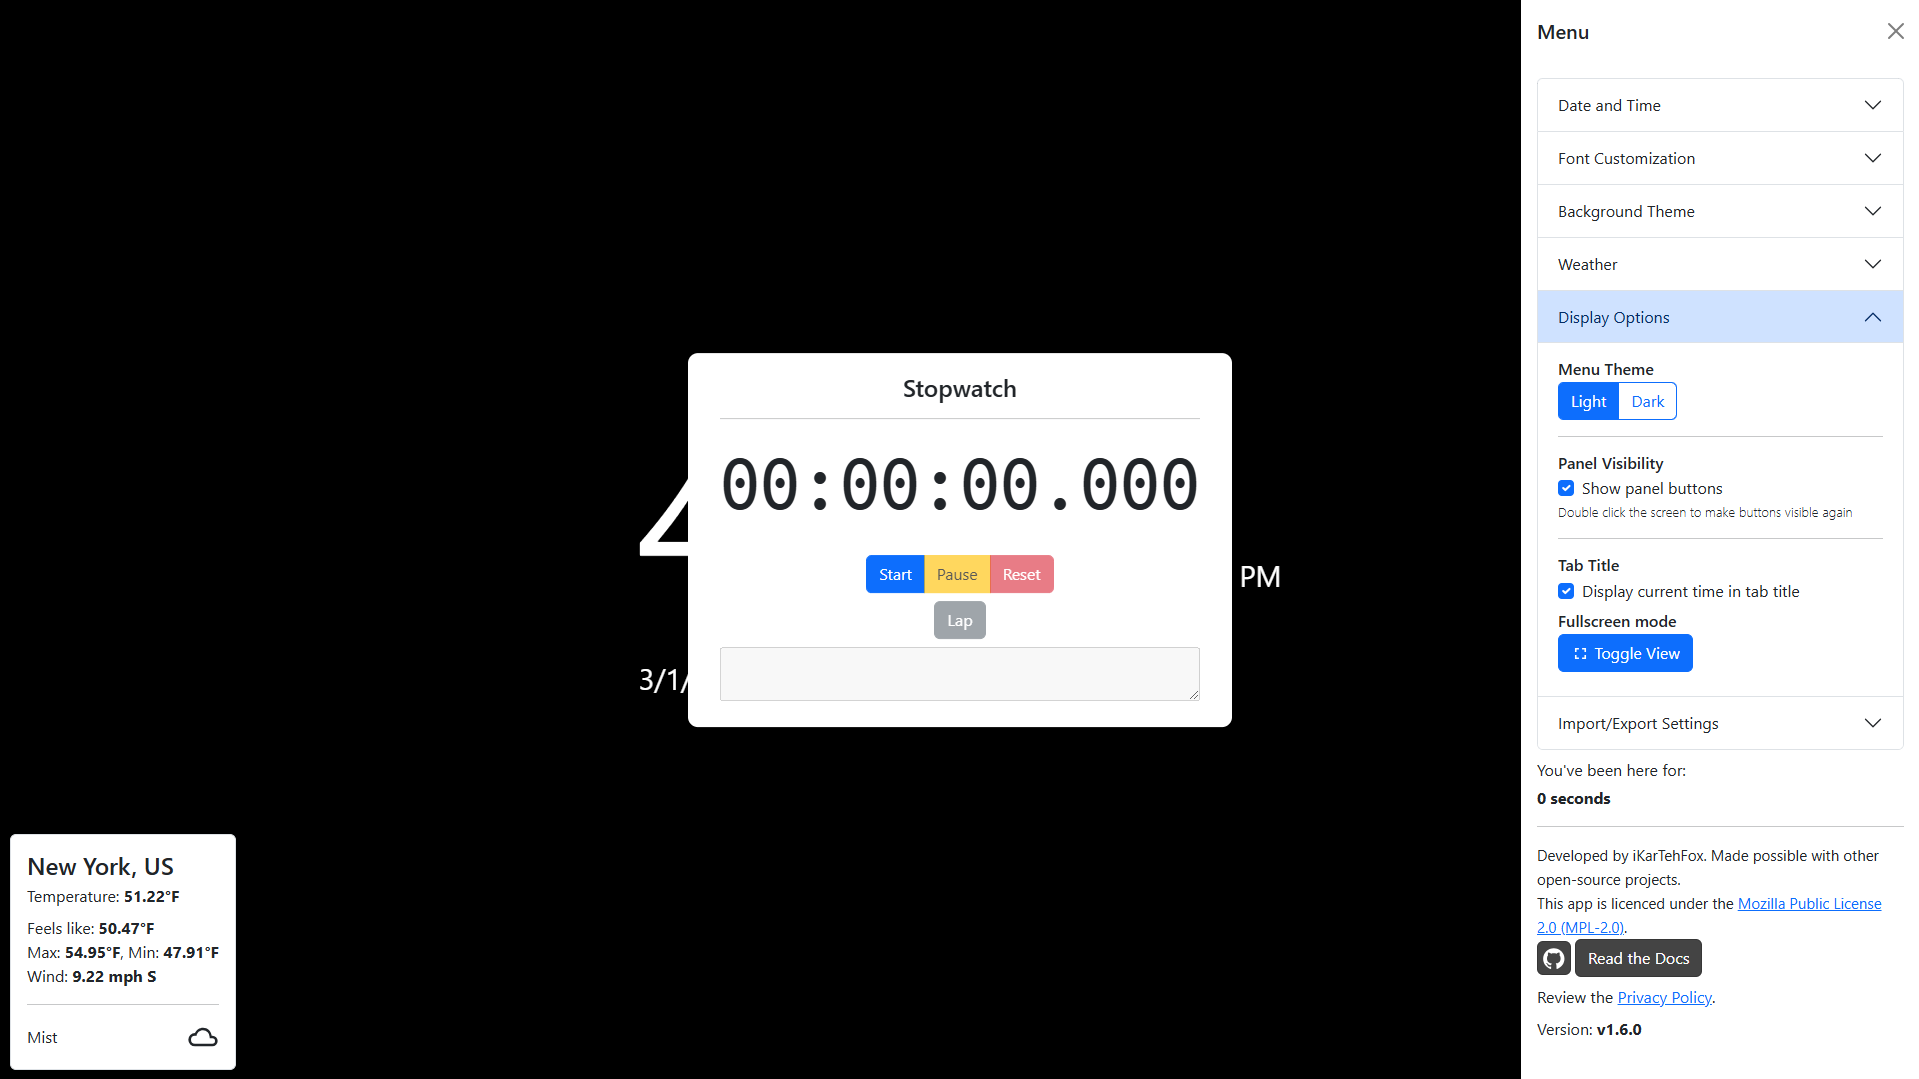
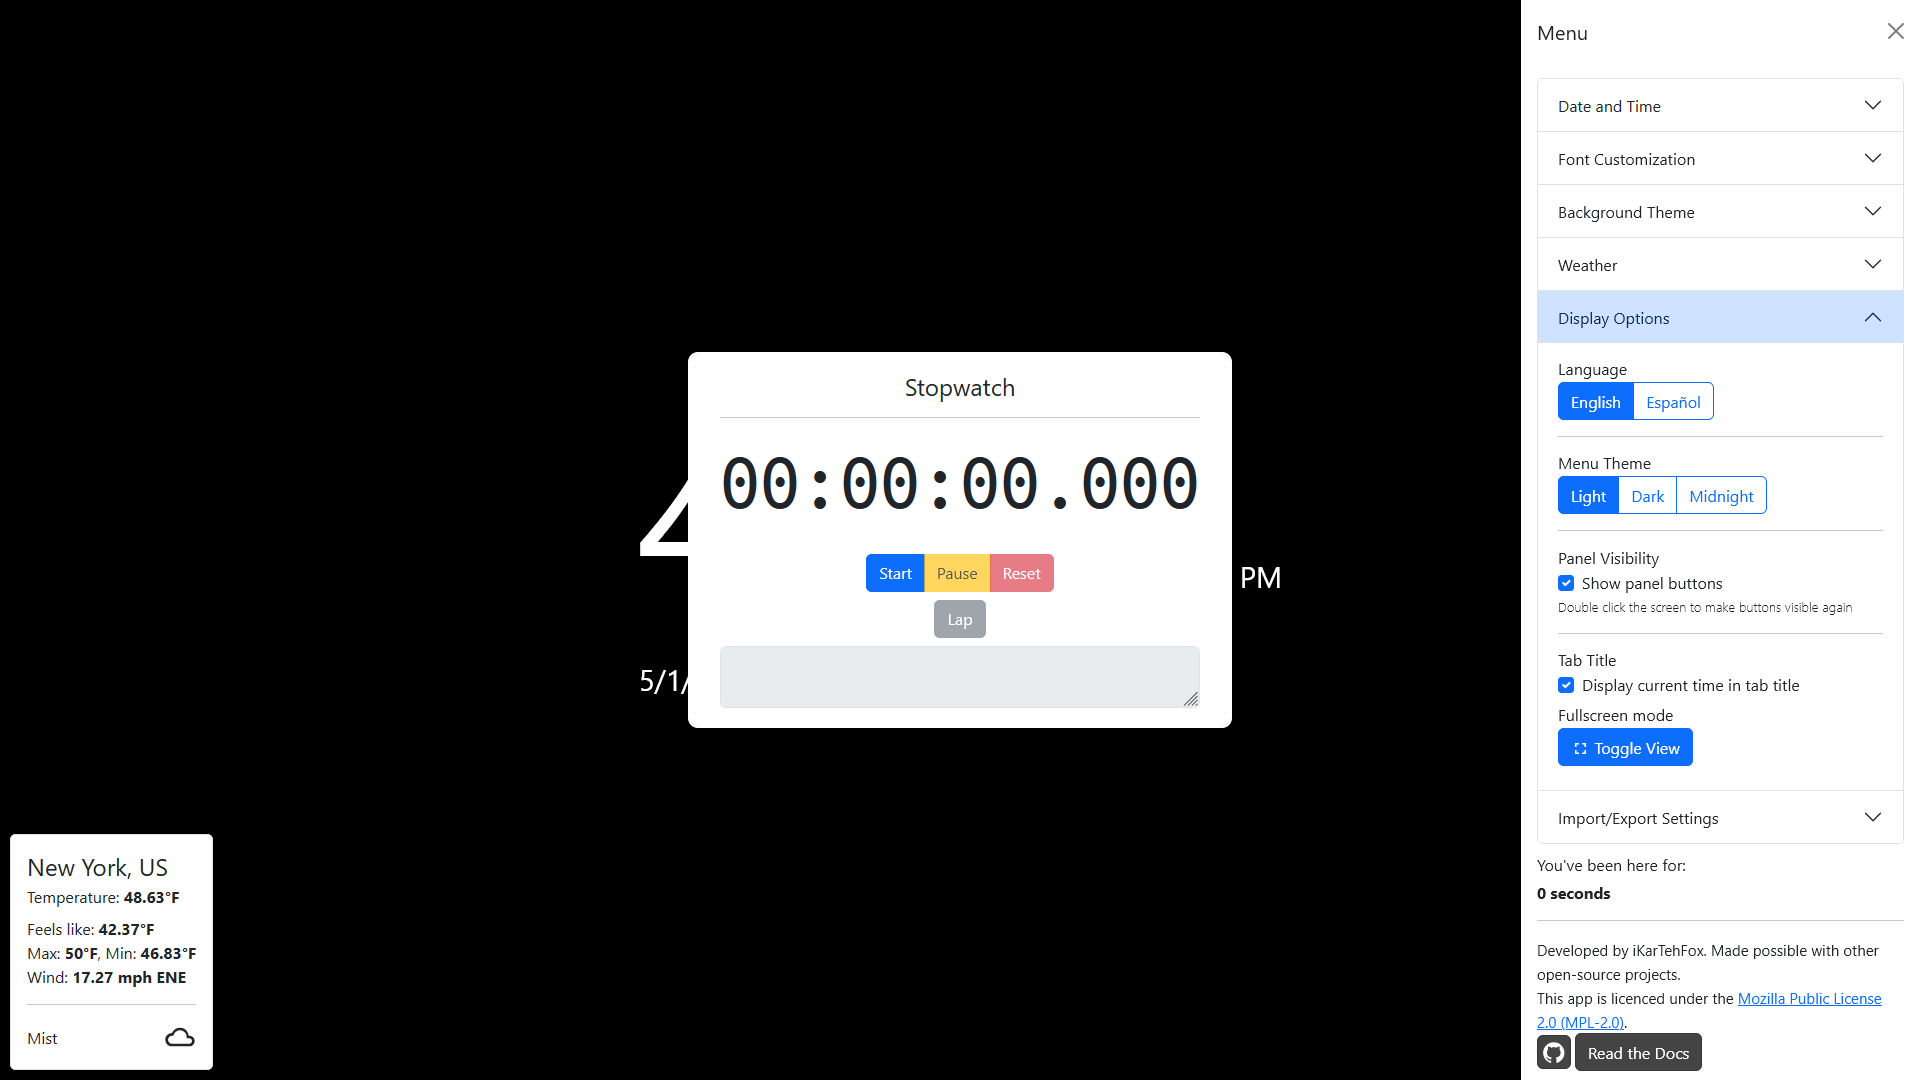
feat: update for v1.7.0

diff --git a/docs/displayoptions.md b/docs/displayoptions.md
@@ -20,65 +20,78 @@ All of these settings can be set with [URL parameters](/docs/url-params#base-url
 
 ## Options
 ### Menu Theme
-The Menu Theme radio buttons allow you to change the theme of the menu panel, either Light or Dark. Theme functionality is included with Bootstrap, and can be changed with the `data-bs-theme` attribute.
+The Menu Theme radio buttons allow you to change the theme of the menu panel, either to Light, Dark, or Midnight. Theme functionality is included with Bootstrap, and can be changed with the `data-bs-theme` attribute.
 
 ![A screenshot of the Menu Theme radio buttons.](/assets/images/docs-Features/displayoptions/menutheme.png)
 
-| Light theme | Dark theme |
-| --- | --- |
-| ![A screenshop of the page with Light theme enabled.](/assets/images/docs-Features/displayoptions/menutheme-light.png) | ![A screenshop of the page with Dark theme enabled.](/assets/images/docs-Features/displayoptions/menutheme-dark.png) |
+| Light theme | Dark theme | Midnight theme |
+| --- | --- | --- |
+| ![A screenshot of the page with Light theme enabled.](/assets/images/docs-Features/displayoptions/menutheme-light.png) | ![A screenshot of the page with Dark theme enabled.](/assets/images/docs-Features/displayoptions/menutheme-dark.png) | ![A screenshot of the page with Midnight theme enabled.](/assets/images/docs-Features/displayoptions/menutheme-midnight.png) |
 
 {: .note }
 The theme is automatically set based on your system's color scheme.
 
-Here's how the `data-bs-theme` attribute gets modified. To avoid breaking everything, it gets applied on a per-element container basis:
+Here's how the `data-bs-theme` attribute gets modified. For modularity purposes, the theme is applied on a per-container basis.
 
 ```ts
-// Menu theme listener
-menu.themeradio.forEach((radio) => {
-    radio.addEventListener('change', () => {
-        match(radio.id)
-            .with('lightthememode', () => {
-                menu.container.dataset.bsTheme = 'light';
-                // Weather container
-                weather.container.dataset.bsTheme = 'light';
-                weather.container.style.color = '#212529';
-                // Stopwatch container
-                stopwatch.container.dataset.bsTheme = 'light';
-                stopwatch.container.style.backgroundColor = '#ffffff';
-                stopwatch.container.style.color = '#212529';
-                // Countdown container
-                countdown.container.dataset.bsTheme = 'light';
-                countdown.container.style.backgroundColor = '#ffffff';
-                countdown.container.style.color = '#212529';
-                // Browser meta
-                setMetaColor('theme', 'light');
-                logConsole(`Menu theme set to: ${radio.id}`, 'debug');
-                showToast('Theme set to light mode ☀');
-            })
-            .with('darkthememode', () => {
-                menu.container.dataset.bsTheme = 'dark';
-                // Weather container
-                weather.container.dataset.bsTheme = 'dark';
-                weather.container.style.color = '#fff';
-                // Stopwatch container
-                stopwatch.container.dataset.bsTheme = 'dark';
-                stopwatch.container.style.backgroundColor = '#313539';
-                stopwatch.container.style.color = '#fff';
-                // Countdown container
-                countdown.container.dataset.bsTheme = 'dark';
-                countdown.container.style.backgroundColor = '#313539';
-                countdown.container.style.color = '#fff';
-                // Browser meta
-                setMetaColor('theme', 'dark');
-                logConsole(`Menu theme set to: ${radio.id}`, 'debug');
-                showToast('Theme set to dark mode 🌙');
-            })
-            .otherwise(() => {
-                logConsole(`Invalid theme mode: ${radio.id}`, 'error');
-            });
+// Menu theme function
+export function setMenuTheme(theme: string | 'toggle', quiet: boolean = false): void {
+    // Get current theme
+    const currentTheme = menu.container.dataset.bsTheme || 'light';
+    
+    // Handle auto
+    if (theme === 'auto') {
+        theme = window.matchMedia && window.matchMedia('(prefers-color-scheme: dark)').matches ? 'dark' : 'light';
+        menu.themeradio[theme === 'light' ? 0 : 1].checked = true;
+    }
+
+    // Handle toggle (cycle through themes)
+    if (theme === 'toggle') {
+        const themeKeys = Object.keys(themes);
+        const currentIndex = themeKeys.indexOf(currentTheme);
+        const nextIndex = (currentIndex + 1) % themeKeys.length;
+        theme = themeKeys[nextIndex];
+        menu.themeradio[nextIndex].checked = true;
+    }
+    
+    // Validate theme exists
+    if (!themes[theme]) {
+        logConsole(`Invalid theme: ${theme}, defaulting to light`, 'error');
+        theme = 'light';
+    }
+
+    const themeConfig = themes[theme];
+    
+    // Apply theme to all containers
+    const containers = [
+        menu.container,
+        weather.container,
+        stopwatch.container,
+        countdown.container
+    ];
+    
+    containers.forEach(container => {
+        // Set data-bs-theme attribute
+        container.dataset.bsTheme = theme;
+        
+        // Set text color
+        if (container !== menu.container) {
+            container.style.color = themeConfig.textColor;
+        }
+        
+        // Set background color for popup containers
+        if (container === stopwatch.container || container === countdown.container) {
+            container.style.backgroundColor = themeConfig.backgroundColor || 
+                (theme === 'light' ? '#ffffff' : '#313539');
+        }
     });
-});
+    
+    // Browser meta
+    setMetaColor('theme', themeConfig.metaTheme);
+    
+    logConsole(`Menu theme set to: ${theme}`, 'debug');
+    if (!quiet) showToast(i18next.t(`toasts.global.theme${theme}`));
+}
 ```
 
 <hr>
@@ -90,7 +103,7 @@ This checkbox toggles visiblity of the panel buttons, including the buttons to o
 
 | Panel buttons visible | Panel buttons hidden |
 | --- | --- |
-| ![A screenshop of the page with Panel Visibility enabled.](/assets/images/docs-Features/displayoptions/panelvisibility-on.png) | ![A screenshop of the page with Panel Visibility disabled.](/assets/images/docs-Features/displayoptions/panelvisibility-off.png) |
+| ![A screenshot of the page with Panel Visibility enabled.](/assets/images/docs-Features/displayoptions/panelvisibility-on.png) | ![A screenshot of the page with Panel Visibility disabled.](/assets/images/docs-Features/displayoptions/panelvisibility-off.png) |
 
 <hr>
 
@@ -101,7 +114,7 @@ If you don't like the dynamic tab title, where it updates along with the time, y
 
 | Tab Title enabled | Tab Title disabled |
 | --- | --- |
-| ![A screenshop of the page with Tab Title enabled.](/assets/images/docs-Features/displayoptions/tabtitle-on.png) | ![A screenshop of the page with Tab Title disabled.](/assets/images/docs-Features/displayoptions/tabtitle-off.png) |
+| ![A screenshot of the page with Tab Title enabled.](/assets/images/docs-Features/displayoptions/tabtitle-on.png) | ![A screenshot of the page with Tab Title disabled.](/assets/images/docs-Features/displayoptions/tabtitle-off.png) |
 
 ## Fullscreen
 This toggle button switches between fullscreen and windowed mode.

diff --git a/docs/datetime.md b/docs/datetime.md
@@ -130,17 +130,29 @@ You cannot enable the Time Bar if a [border style](#border-style) is selected.
 ### Date Display
 If you prefer a different date format other than the default, you can change that here. Each option is localized based on your browser's locale and updates automatically as the date changes.
 
+The dropdown is grouped by Localized and standard formats, the latter of which do not change based on the locale.
+
 ![A screenshot of the Date Display dropdown menu with the first option selected](/assets/images/docs-Features/datetime/datedisplay.png)
 
 The table below lists the different tokens Luxon uses for each date format:
 
 | Luxon format token | Description |
 | --- | --- |
+| **Localized** |
 | D | Localized numeric date (3/1/2025) |
 | DD | Localized date with abbreviated month (Mar 1, 2025) |
 | DDD | Localized date with full month (March 1, 2025) |
 | DDDD | Localized date with full month and weekday (Saturday, March 1, 2025) |
-| Off | The date is hidden |
+| **Standard** |
+| MMMM d | Full month and day (March 1) |
+| MMM d | Abbreviated month and day (Mar 1) |
+| d MMMM | Day and full month (1 March) |
+| d MMM | Day and abbreviated month (1 Mar) |
+| MMMM yyyy | Full month and year (March 2025) |
+| yyyy | Year (2025) |
+| 'Q'q, yyyy | Quarter and year (Q1, 2025) |
+| 'Day' o 'of' yyyy | Day of year (Day 60 of 2025) |
+| 'Week' W, 'Day' o | Week number and day of year (Week 9, Day 60) |
 
 ![The date displayed using the "DDDD" date format. The date (3/1/2025) is shown as "Saturday, March 1, 2025".](/assets/images/docs-Features/datetime/datedisplay-DDDD.png)
 
@@ -218,42 +230,37 @@ function startClock() {
     if (menu.legacyrefreshcheckbox.checked) {
         startOldClock();
     } else {
-        startNewClock();
+        startExperimentalClock();
     }
 }
 
-// Function to start the new clock method
-function startNewClock() {
-    const timeToNextSecond = 1000 - Number(getLuxNow('millis')) % 1000;
-
-    setTimeout(() => {
-        updateTime();
-        updatePageDuration();
-
-        // Start the regular interval updates
-        let lastUpdateTime = Date.now();
-
-        clockInterval = setInterval(() => {
+// Function to start experimental clock
+function startExperimentalClock() {
+    // Initial update
+    updateTime();
+    updatePageDuration();
+    logConsole('Experimental clock started...', 'info');
+    
+    // Function to schedule the next update
+    function scheduleNextUpdate() {
+        // Calculate time to next second
+        const timeToNextSecond = 1000 - Number(getLuxNow('millis')) % 1000;
+        
+        // Schedule next update
+        clockInterval = setTimeout(() => {
+            // Update the clock
             updateTime();
             updatePageDuration();
-            logConsole('Time, date, and page duration updated...', 'info');
 
-            const now = Date.now();
-            const elapsed = now - lastUpdateTime;
-            lastUpdateTime = now;
-
-            const drift = elapsed - 1000;
-
-            // Add a maximum drift threshold, e.g. 1000ms
-            const cappedDrift = Math.max(Math.min(drift, 1000), -1000);
-
-            if (Math.abs(drift) > 150) {
-                logConsole(`Time drift detected: ${drift > 0 ? '+':''}${drift}ms.${Math.abs(drift) > 1000 ? ` Capped to ${cappedDrift}ms` : ''}`, 'debug');
-                clearInterval(clockInterval!);
-                setTimeout(startNewClock, 1000 - cappedDrift);
-            }
-        }, 1000);
-    }, timeToNextSecond);
+            logConsole('Time, date, and page duration updated... (Experimental method)', 'debug');
+            
+            // Schedule the next update
+            scheduleNextUpdate();
+        }, timeToNextSecond);
+    }
+    
+    // Start the scheduling loop
+    scheduleNextUpdate();
 }
 
 // Function to start the old clock method
@@ -261,7 +268,7 @@ function startOldClock() {
     clockInterval = setInterval(() => {
         updateTime();
         updatePageDuration();
-        logConsole('Time, date, and page duration updated (Legacy method)...', 'info');
+        logConsole('Time, date, and page duration updated... (Legacy method)', 'info');
     }, timeRefresh) as unknown as NodeJS.Timeout;
 }
 ```

diff --git a/index.md b/index.md
@@ -19,19 +19,23 @@ Welcome to the Online Web Clock docs!
 ## Latest Updates
 See what's new for Online Web Clock:
 
-### v1.5.3 (28 January, 2025)
+### v1.7.0 (20 May, 2025)
 #### 🆕 Additions
- - Change the meta `theme-color` tag dynamically based on background color and menu theme 
-   - Depending on your platform and browser, the color changes may not be visible. Typically, the accent color change is only visible in smartphone browsers and desktop PWAs. Additionally, the color may or may not change depending on your current menu theme or system theme.
- - Add more verbosity in the form of toasts for GPS errors
- - Add new "Is it..." display methods
+- Implement i18next for multi-language (internationalization) support
+- Add aliases for URL parameters
+- Add new Midnight theme
+- Add new clock syncing function
 
 #### 🔧 Changes
- - Tweak menu container `max-height` value to ensure visibility on landscape smartphones
- - Switch to using ts-pattern's `match()` in more places
- - Increase export version to 9 and add new validation entries
+- Revamp theme selection/cycling
+- Change export buttons into split dropdown
+- Fix lockSettings not working with offcanvas
+- Fix auto menuTheme URL parameter not changing selected theme radio
+- Fix setDropShadow() not being called by import
+- Properly handle invalid URL parameter values
+- Various code improvements and optimizations
 
-Check out this update! ([GitHub](https://github.com/iKarTehFox/web-clock/releases/tag/v1.5.3))
+Check out this update! ([GitHub](https://github.com/iKarTehFox/web-clock/releases/tag/v1.7.0))
 
 <hr>
 

diff --git a/docs/importexport.md b/docs/importexport.md
@@ -55,15 +55,14 @@ Below is a table of the subkeys of the `clockConfig` object and their valid valu
 
 | Subkey | Valid values | Description |
 | --- | --- | --- |
-| clockMode | `cmo12`, `cmo24` | The clock mode (12 or 24-hour) |
 | clockDisplay | `binary`, `octal`, `decimal`, `hexa`, `emoji`, `roman`, `words`, `unixmillis`, `unixsec`, `unixcountdown`, `se_valentines`, `se_christmas`, `se_newyears`, `ii_christmas`, `ii_weekend`, `ii_leapyear` | Clock display system |
 | secondsVis | `sviD`, `sviN` | Whether to display the seconds |
-| dateFormat | `D`, `DD`, `DDD`, `DDDD`, **unset** | Format token for the date |
+| dateFormat | `D`, `DD`, `DDD`, `DDDD`, `MMMM d`, `MMM d`, `d MMMM`, `d MMM`, `MMMM yyyy`, `yyyy`, `\'Q\'q, yyyy`, `\'Day\' o \'of\' yyyy`, `\'Week\' W`, `\'Day\' o`, **unset** | Format token for the date |
 | dateAlign | `dpoL`, `dpoC`, `dpoR` | Alignment of the date |
 | borderMode | `btyD`, `btyR`, `btyB` | Type of border, such as bottom, box, or disabled |
 | borderStyle | `solid`, `dashed`, `dotted`, `double` | Style of the border |
 | timeBar | `tbarWeekday`, `tbarMonth`, `tbarDay`, `tbarHour`, `tbarSec`, `tbarNone` | Type of time bar display |
-| customNote | `string` | Custom note text to display |
+| customNote | \<String\> | Custom note text to display |
 | customNoteAlign | `nalT`, `nalB` | Alignment of the custom note |
 
 {: .info }

diff --git a/docs-dev/debugging.md b/docs-dev/debugging.md
@@ -73,3 +73,13 @@ These buttons let you test the toast notifications and their different themes.
 When clicked, the buttons will spawn a Toastify toast with the corresponding theme. The default duration of 3 seconds is used.
 
 ![A screenshot of the Toasts debugging options.](/assets/images/docs-Development/debugging/toast.png)
+
+### UI
+The "Remove clock container" button deletes the entire clock container from the DOM. This is useful for taking clean screenshots of the clock without the time showing (such as on these documentation pages!).
+
+![A screenshot of the UI debugging options.](/assets/images/docs-Development/debugging/ui.png)
+
+### localStorage
+The "Clear localStorage" button removes all existing localStorage data for Online Web Clock. One example of its use is to see the "new update" notification after dismissing it.
+
+![A screenshot of the localStorage debugging options.](/assets/images/docs-Development/debugging/localstorage.png)
